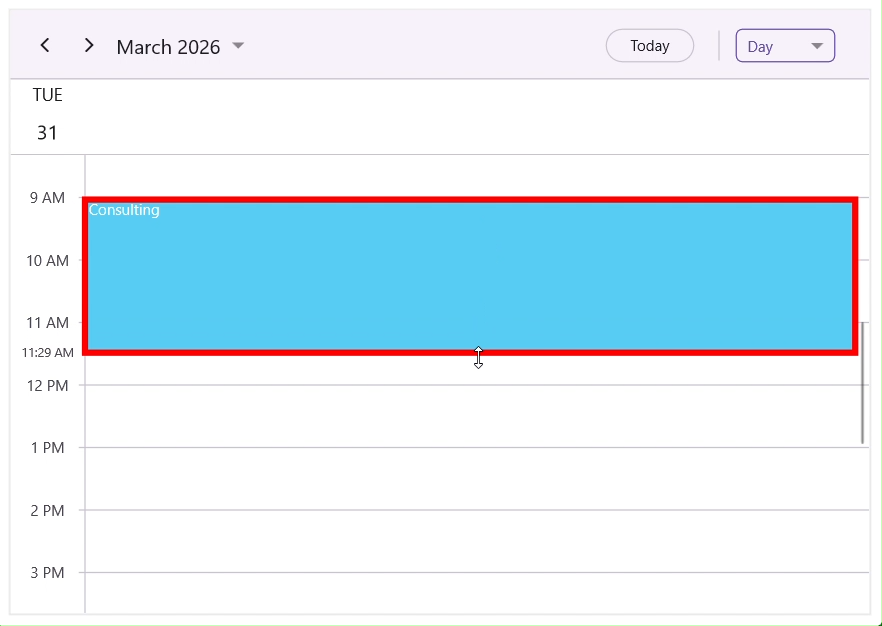
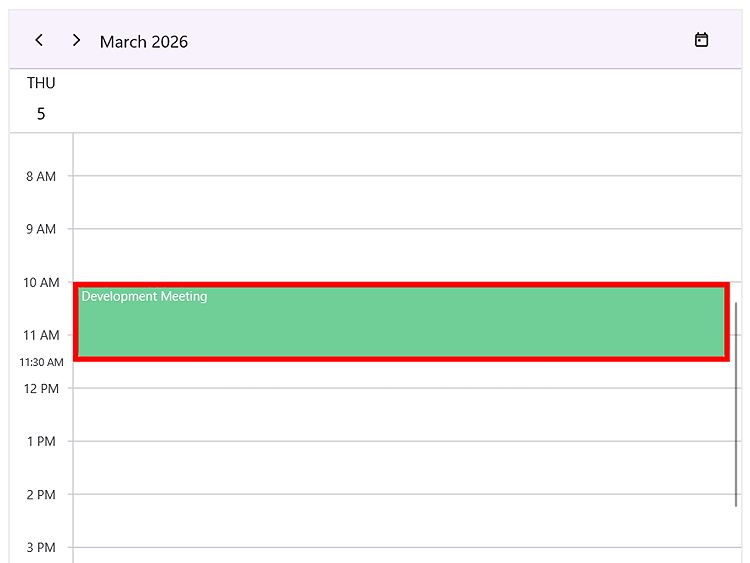
Addressed review correction and changed the resize border image with the latest changes.

diff --git a/MAUI/Scheduler/appointments.md b/MAUI/Scheduler/appointments.md
@@ -1212,7 +1212,7 @@ N>
 
 ## Appointment Editor
 
-The Appointment Editor is a popup dialog used for adding, editing, or deleting appointments in the Scheduler. It provides fields for entering detailed event information, along with options for color customization, recurrence configuration, and timezone settings. The editor can be opened by double‑tapping a time slot or an existing appointment.
+The Appointment Editor is a popup dialog used for adding, editing, or deleting appointments in the Scheduler. It provides fields for entering detailed event information, along with options for color customization, recurrence configuration, and timezone selection. The editor can be opened by double‑tapping a time slot or an existing appointment.
 
 You can control when the editor is available by using the `AppointmentEditorMode` property:
 
@@ -1220,7 +1220,7 @@ You can control when the editor is available by using the `AppointmentEditorMode
 - **Edit** – Allows users to modify existing appointments.
 - **None** – Disables the editor entirely.
 
-By default, `AppointmentEditorMode` is set to `None`. To allow users to open and interact with the Appointment Editor, set the `AppointmentEditorMode` to `Add` or `Edit`.
+By default, `AppointmentEditorMode` is set to `None`. To enable the Appointment Editor for user interaction, set the AppointmentEditorMode property to `Add`, `Edit`, or both.
 
 {% tabs %}
 {% highlight xaml tabtitle="XAML" hl_lines="3" %}
@@ -1245,7 +1245,7 @@ public partial class MainPage : ContentPage
 
 ## Appointment Resizing
 
-Modify appointment durations directly by dragging the start or end edges of an appointment. In Day, Week, and Work Week views, drag the top or bottom edges, while in Month and Timeline views, drag the left or right edges to adjust the appointment timing. By default, `AllowAppointmentResize` is set to `false`. Enable this functionality by setting the `AllowAppointmentResize` property to `true`.
+Appointments can be resized interactively to adjust their start or end times. In Day, Week, and Work Week views, you can resize an appointment by dragging its top or bottom edges. In Month, Week All‑Day, and Timeline views, resizing is performed by dragging the left or right edges of the appointment. By default, the `AllowAppointmentResize` property is set to `false`. To enable appointment resizing, set the `AllowAppointmentResize` property to `true`.
 
 {% tabs %}
 {% highlight xaml tabtitle="XAML" hl_lines="3" %}
@@ -1268,13 +1268,17 @@ public partial class MainPage : ContentPage
 
 ![Appointment-Resizing-In-.NET-MAUI-SfScheduler](images/appointments/appointment-resizing.gif)
 
+N>
+- Appointment resizing is supported only on desktop platforms.
+- Resizing works exclusively through mouse interactions, using the built‑in mouse resize cursors of the native platform.
+
 ### Appointment Resize Settings
 
 The `AppointmentResizeSettings` property lets you configure automatic scrolling, time indicators with customizable format and style, and the border appearance when an appointment is resized.
 
 #### Allow Resize Scroll
 
-You can enable automatic scrolling during appointment resizing using the `AllowResizeScroll` property. As the appointment is being resized and reaches the boundary of the visible timeslots, the scheduler scrolls to display additional timeslots. This allows the resizing process to continue smoothly. Setting `AllowResizeScroll` to `true` enables this functionality. The default value is `false`.
+You can enable automatic scrolling during appointment resizing using the `AllowResizeScroll` property. As the appointment is being resized and reaches the boundary of the visible timeslots, the scheduler scrolls to display additional timeslots. This allows the resizing process to continue smoothly. By default, `AllowResizeScroll` is set to `true`. To disable automatic scrolling during appointment resizing, set the `AllowResizeScroll` property to `false`.
 
 {% tabs %}
 {% highlight xaml tabtitle="XAML" hl_lines="5" %}
@@ -1311,7 +1315,7 @@ You can display a time indicator while resizing an appointment by using the `Sho
                        View="Day" 
                        AllowAppointmentResize="True">
     <scheduler:SfScheduler.AppointmentResizeSettings>
-        <scheduler:AppointmentResizeSettings ShowTimeIndicator="False"/>
+        <scheduler:AppointmentResizeSettings ShowTimeIndicator="True"/>
     </scheduler:SfScheduler.AppointmentResizeSettings>
 </scheduler:SfScheduler>
 {% endhighlight %}
@@ -1329,6 +1333,9 @@ public partial class MainPage : ContentPage
 {% endtabs %}
 
 ![ShowTimeIndicator-In-Appointment-Resizing-In-.NET-MAUI-SfScheduler](images/appointments/show-time-indicator.png)
+
+N>
+- The time indicator is not displayed in Month view, the All‑Day layout, and TimelineMonthView.
 
 #### Time Indicator Text Format
 
@@ -1396,7 +1403,7 @@ public partial class MainPage : ContentPage
 
 ![TimeIndicatorStyle-Of-TimeIndicator-in-Appointment-Resizing-in-.NET-MAUI-SfScheduler](images/appointments/time-indicator-style.png)
 
-#### Resize Border
+#### Resize Border Customization
  
 The border displayed around an appointment during resizing can be customized using the `ResizeBorderThickness` and `ResizeBorderStroke` properties. ResizeBorderThickness defines how thick the border appears, while ResizeBorderStroke specifies its color.
 
@@ -1449,6 +1456,10 @@ public partial class MainPage : ContentPage
 {% endtabs %}
 
 ![Appointment-Tooltip-in-.NET-MAUI-SfScheduler](images/appointments/appointment-tooltip.png)
+
+N>
+- **Desktop platforms**: A tooltip is shown when you hover the mouse over an appointment.
+- **Mobile platforms**: A tooltip is shown when you tap or long‑press an appointment. For long‑press interactions, the tooltip appears only when appointment dragging is disabled.
 
 ### Appointment Tooltip Settings
 
